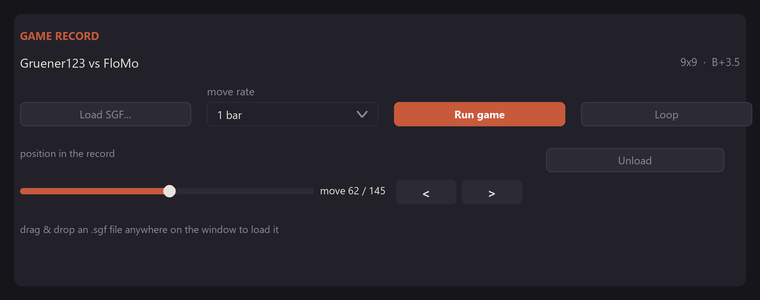
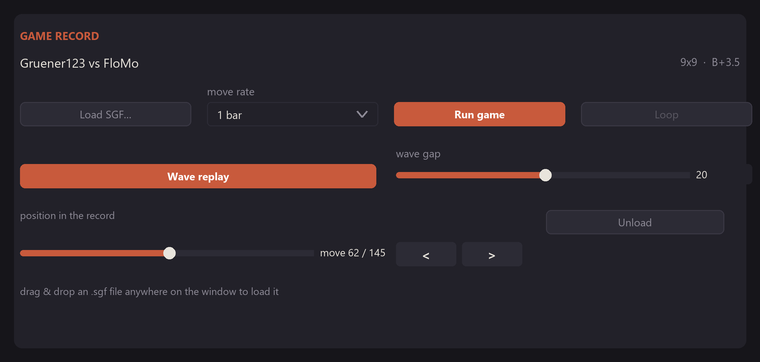
Update GAME RECORD mockup for Wave Replay
The panel mockup embedded in how-to-use-it.md still showed the
pre-Wave-Replay layout. Adds the Wave Replay/Wave Gap row and greys
out Loop to match the real panel and the surrounding text.

diff --git a/docs/mockups/generate.py b/docs/mockups/generate.py
@@ -446,13 +446,14 @@ def mock_combo(d, x, y, w, caption, value_text, enabled=True):
     d.line([s(cx - 5), s(cy - 3), s(cx), s(cy + 3), s(cx + 5), s(cy - 3)], fill=DIM, width=sw(1.6), joint="curve")
 
 
-def mock_toggle(d, x, y, w, caption, on):
+def mock_toggle(d, x, y, w, caption, on, enabled=True):
     ty = y + 18
-    if on:
+    if on and enabled:
         rrect(d, (x, ty, x + w, ty + 24), 5, fill=ACCENT)
     else:
         rrect(d, (x, ty, x + w, ty + 24), 5, fill=PANEL_BRIGHT, outline=(0x3a, 0x38, 0x44), width=1)
-    text(d, (x + w / 2, ty + 12), caption, font(10.8, bold=on), fill=(0xff, 0xff, 0xff) if on else DIM, anchor="mm")
+    label_fill = (0xff, 0xff, 0xff) if (on and enabled) else ((0x5a, 0x58, 0x62) if not enabled else DIM)
+    text(d, (x + w / 2, ty + 12), caption, font(10.8, bold=(on and enabled)), fill=label_fill, anchor="mm")
 
 
 def section_header(d, x, y, text_str):
@@ -532,7 +533,7 @@ def mockup_channels_foldout():
 
 def mockup_game_record():
     W, H = 320, 300
-    W2, H2 = 760, 300
+    W2, H2 = 760, 362
     img, d = new_canvas(W2, H2)
     x0 = 20
     rrect(d, (14, 14, W2 - 14, H2 - 14), 8, fill=PANEL)
@@ -546,7 +547,12 @@ def mockup_game_record():
     mock_toggle(d, x0, y, colw, "Load SGF\u2026", False)
     mock_combo(d, x0 + colw + 16, y, colw, "move rate", "1 bar")
     mock_toggle(d, x0 + 2 * (colw + 16), y, colw, "Run game", True)
-    mock_toggle(d, x0 + 3 * (colw + 16), y, colw, "Loop", False)
+    mock_toggle(d, x0 + 3 * (colw + 16), y, colw, "Loop", False, enabled=False)
+
+    y += 62
+    half_w = (W2 - 28) / 2 - 10
+    mock_toggle(d, x0, y, half_w, "Wave replay", True)
+    mock_slider(d, x0 + half_w + 20, y, half_w, "wave gap", "20")
 
     y += 62
     slider_w = (W2 - 28) / 2 - 10
